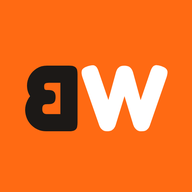
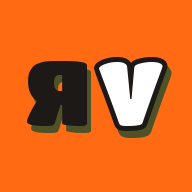
Rename the game to ReVerse and switch to chunky bubble letters
Titan One for the logo, headings and buttons, with a dark outline and a
brownish-green offset shadow on the big title. Body text in Fredoka one
weight heavier. New RV icon. Bumps the service worker cache.

Claude-Session: https://claude.ai/code/session_01UXSyVniC2nR7ZZAoqzu2wF

Changed region(s): [[0.125, 0.2812, 0.9062, 0.7188]]

diff --git a/docs/index.html b/docs/index.html
@@ -4,32 +4,38 @@
 <meta name="apple-mobile-web-app-capable" content="yes">
 <meta name="mobile-web-app-capable" content="yes">
 <meta name="apple-mobile-web-app-status-bar-style" content="black-translucent">
-<meta name="apple-mobile-web-app-title" content="BackWords">
+<meta name="apple-mobile-web-app-title" content="ReVerse">
 <link rel="manifest" href="manifest.webmanifest">
 <link rel="apple-touch-icon" href="icon-180.png">
 <link rel="icon" href="icon-192.png">
-<title>BackWords</title>
-<!-- Fredoka (SIL Open Font License) is served from this site, so the first paint does not wait on another domain. -->
+<title>ReVerse</title>
+<!-- Fonts (SIL Open Font License) are served from this site, so the first paint does not wait on another domain.
+     Titan One: chunky bubble letters for the logo, headings and buttons. Fredoka: body text. -->
+<link rel="preload" href="fonts/titan-one-latin.woff2" as="font" type="font/woff2" crossorigin>
 <link rel="preload" href="fonts/fredoka-latin.woff2" as="font" type="font/woff2" crossorigin>
 <style>:root{padding-top:env(safe-area-inset-top,0px);padding-bottom:env(safe-area-inset-bottom,0px)}[hidden]{display:none!important}img{max-width:100%}</style>
 <style>
 @font-face{font-family:"Fredoka";font-style:normal;font-weight:300 700;font-stretch:100%;font-display:swap;src:url(fonts/fredoka-latin.woff2) format("woff2");
   unicode-range:U+0000-00FF,U+0131,U+0152-0153,U+02BB-02BC,U+02C6,U+02DA,U+02DC,U+0304,U+0308,U+0329,U+2000-206F,U+20AC,U+2122,U+2191,U+2193,U+2212,U+2215,U+FEFF,U+FFFD}
+/* Titan One has one weight. Declaring it for the whole weight range stops browsers from faking a bold on top of it. */
+@font-face{font-family:"Titan One";font-style:normal;font-weight:100 900;font-display:swap;src:url(fonts/titan-one-latin.woff2) format("woff2");
+  unicode-range:U+0000-00FF,U+0131,U+0152-0153,U+02BB-02BC,U+02C6,U+02DA,U+02DC,U+0304,U+0308,U+0329,U+2000-206F,U+20AC,U+2122,U+2191,U+2193,U+2212,U+2215,U+FEFF,U+FFFD}
 /* Layout: phone-first stage. A thin bar on top, one main action per screen, centered.
-   Look: white and orange, one rounded friendly font (Fredoka), flat shapes, little decoration. */
+   Look: white and orange, chunky bubble letters (Titan One) with a brownish-green offset shadow for the
+   logo and headings, a pudgy rounded body font (Fredoka at a heavy weight), flat shapes. */
 :root{
   --bg:#ffffff; --card:#f6f2ee; --ink:#1c1917; --dim:#78716c; --line:#e9e2db;
   --a:#ff6a13; --a-dk:#4e5226; --b:#1c1917; --b-dk:#4e5226; --shadow:#4e5226;
   --gold:#ff6a13; --gold-dk:#4e5226; --good:#16a34a; --good-dk:#0f7a37; --bad:#dc2626;
   --paper:#fff4ec; --paper-ink:#1c1917; --on-team:#ffffff;
   --team:var(--a); --team-dk:var(--a-dk);
-  --f-d:"Fredoka","Arial Rounded MT Bold",system-ui,sans-serif;
+  --f-d:"Titan One","Fredoka","Arial Rounded MT Bold",system-ui,sans-serif;
   --f-b:"Fredoka",system-ui,-apple-system,sans-serif;
   color-scheme:light;
 }
 body[data-team="1"]{--team:var(--b);--team-dk:var(--b-dk)}
 html,body{height:100%}
-body{margin:0;background:var(--bg);color:var(--ink);font-family:var(--f-b);font-weight:500;font-size:17px;line-height:1.35;
+body{margin:0;background:var(--bg);color:var(--ink);font-family:var(--f-b);font-weight:600;font-size:17px;line-height:1.35;
   padding-left:max(16px,env(safe-area-inset-left,0px));padding-right:max(16px,env(safe-area-inset-right,0px));padding-block:10px 24px;
   -webkit-tap-highlight-color:transparent;user-select:none;-webkit-user-select:none}
 input{user-select:text;-webkit-user-select:text}
@@ -37,13 +43,14 @@ input{user-select:text;-webkit-user-select:text}
 h1,h2,.d{font-family:var(--f-d);font-weight:600;margin:0;letter-spacing:-.01em;text-wrap:balance}
 p{margin:0}
 .dim{color:var(--dim)}
-b{font-weight:600}
+b{font-weight:700}
 
 /* top bar */
 .bar{display:flex;align-items:center;justify-content:space-between;gap:8px;padding:4px 0 10px}
 .logo{font-family:var(--f-d);font-weight:600;font-size:1.15rem;display:flex;gap:0;align-items:center;letter-spacing:-.01em;background:none;border:none;color:var(--ink);padding:6px 6px 6px 0;margin:0;cursor:pointer;min-height:40px}
 .logo .bk{display:inline-block;width:.9em;margin-right:2px;font-size:1.3rem;line-height:1;color:var(--dim)}
 .logo .w{color:var(--a)}
+.logo span:not(.bk){text-shadow:.04em .07em 0 var(--shadow)}
 .scores{display:flex;align-items:center;gap:6px;font-family:var(--f-d);font-weight:600;font-size:1.1rem;font-variant-numeric:tabular-nums}
 .scores .s{padding:3px 10px;border-radius:999px;min-width:2.4em;text-align:center;color:#fff}
 .scores .sa{background:var(--a)} .scores .sb{background:var(--b)}
@@ -58,19 +65,19 @@ b{font-weight:600}
 .center{text-align:center;align-items:center}
 .kicker{font-size:.8rem;letter-spacing:.12em;text-transform:uppercase;color:var(--dim);font-weight:600}
 .huge{font-size:clamp(2.6rem,13vw,4rem);line-height:.95}
-.big-t{font-size:clamp(1.8rem,8.5vw,2.4rem);line-height:1.05}
+.big-t{font-size:clamp(1.8rem,8.5vw,2.4rem);line-height:1.05;text-shadow:.04em .06em 0 rgba(78,82,38,.28)}
 
 /* buttons: flat, rounded, a small press */
 .btn{font-family:var(--f-d);font-weight:600;font-size:1.3rem;border:none;border-radius:16px;padding:16px 20px;cursor:pointer;width:100%;
-  background:var(--a);color:#fff;box-shadow:0 4px 0 var(--a-dk);transition:transform .06s, box-shadow .06s;letter-spacing:.01em}
+  background:var(--a);color:#fff;box-shadow:0 4px 0 var(--a-dk);transition:transform .06s, box-shadow .06s;letter-spacing:.02em;text-shadow:0 .08em 0 rgba(78,82,38,.55)}
 .btn:active{transform:translateY(3px);box-shadow:0 1px 0 var(--a-dk)}
 .btn.team{background:var(--team);color:#fff;box-shadow:0 4px 0 var(--team-dk)}
 .btn.team:active{box-shadow:0 1px 0 var(--team-dk)}
-.btn.ghost{background:var(--card);color:var(--ink);box-shadow:none;font-size:1.05rem;padding:13px}
+.btn.ghost{background:var(--card);color:var(--ink);box-shadow:none;font-size:1.05rem;padding:13px;text-shadow:none}
 .btn.ghost:active{background:var(--line)}
 .btn svg{width:1.1em;height:1.1em;vertical-align:-.15em}
 .btn:disabled{opacity:.35;pointer-events:none}
-.link{background:none;border:none;color:var(--dim);font:500 .95rem var(--f-b);text-decoration:underline;cursor:pointer;padding:8px}
+.link{background:none;border:none;color:var(--dim);font:600 .95rem var(--f-b);text-decoration:underline;cursor:pointer;padding:8px}
 button:focus-visible,input:focus-visible{outline:3px solid var(--a);outline-offset:3px}
 .row{display:flex;gap:12px}
 .row>*{flex:1}
@@ -131,9 +138,9 @@ button:focus-visible,input:focus-visible{outline:3px solid var(--a);outline-offs
   box-shadow:0 4px 0 var(--shadow);animation:enter .3s backwards}
 .bet:active{transform:translateY(3px);box-shadow:0 1px 0 var(--shadow)}
 .bet .n{font-size:2.4rem;line-height:1}
-.bet .s{font-size:.7rem;letter-spacing:.1em;opacity:.9;font-weight:500}
+.bet .s{font-size:.7rem;letter-spacing:.1em;opacity:.9;font-weight:600}
 .bet .p{font-size:1.05rem}
-.bet .m{font-size:.75rem;opacity:.85;font-weight:500}
+.bet .m{font-size:.75rem;opacity:.85;font-weight:600}
 
 /* inputs */
 .inp{width:100%;box-sizing:border-box;font:600 1.3rem var(--f-b);padding:14px;border-radius:14px;border:2px solid var(--line);background:#fff;color:var(--ink);text-align:center}
@@ -157,8 +164,11 @@ button:focus-visible,input:focus-visible{outline:3px solid var(--a);outline-offs
 .title{text-align:center;padding:10px 0 4px}
 .title .huge{font-size:clamp(3rem,15vw,4.4rem);font-weight:700}
 .title .mirror{display:block;transform:scaleX(-1);color:var(--a)}
+/* Bubble letters: a dark outline drawn behind the fill, and a solid brownish-green offset shadow. */
+.title .huge,.code{-webkit-text-stroke:.09em var(--ink);paint-order:stroke fill;text-shadow:.05em .08em 0 var(--shadow)}
+.title .huge:not(.mirror){color:#fff}
 .seg{display:flex;flex-wrap:wrap;gap:8px}
-.seg button{font:500 .95rem var(--f-b);padding:9px 14px;border-radius:999px;border:none;background:#fff;color:var(--dim);cursor:pointer}
+.seg button{font:600 .95rem var(--f-b);padding:9px 14px;border-radius:999px;border:none;background:#fff;color:var(--dim);cursor:pointer}
 .seg button[aria-checked="true"]{background:var(--a);color:#fff}
 .lbl{font-size:.75rem;letter-spacing:.12em;text-transform:uppercase;color:var(--dim);font-weight:600}
 .teamrow{display:grid;grid-template-columns:1fr 1fr;gap:8px}
@@ -170,7 +180,7 @@ button:focus-visible,input:focus-visible{outline:3px solid var(--a);outline-offs
 .overlay{position:fixed;inset:0;background:rgba(28,25,23,.4);z-index:20;overflow:auto;
   padding:calc(env(safe-area-inset-top,0px) + 16px) max(16px,env(safe-area-inset-right,0px)) calc(env(safe-area-inset-bottom,0px) + 16px) max(16px,env(safe-area-inset-left,0px))}
 .overlay .card{max-width:480px;margin:0 auto;background:#fff}
-.overlay ul{margin:0;padding-left:20px;font-weight:400;display:flex;flex-direction:column;gap:6px}
+.overlay ul{margin:0;padding-left:20px;font-weight:500;display:flex;flex-direction:column;gap:6px}
 .tag{font-size:.65rem;color:var(--a);border:1px solid var(--a);border-radius:4px;padding:0 4px;margin-left:4px;font-weight:600}
 #fx{position:fixed;inset:0;pointer-events:none;z-index:30;width:100%;height:100%}
 .code{font-family:var(--f-d);font-weight:700;font-size:clamp(3.2rem,17vw,4.6rem);letter-spacing:.16em;line-height:1;color:var(--a)}
@@ -186,7 +196,7 @@ button:focus-visible,input:focus-visible{outline:3px solid var(--a);outline-offs
 .daily-cta:active{background:var(--paper)}
 .drow{display:flex;gap:10px;align-items:center;padding:10px 14px;border-radius:12px;background:var(--card);font-weight:600;text-align:left;width:100%;box-sizing:border-box}
 .drow.no span{color:var(--bad)} .drow.ok{background:#e8f7ee} .drow.ok span{color:var(--good)}
-.hint{padding:8px 14px;border-radius:12px;background:var(--paper);color:var(--ink);font-weight:500;width:100%;box-sizing:border-box;text-align:left;letter-spacing:.02em}
+.hint{padding:8px 14px;border-radius:12px;background:var(--paper);color:var(--ink);font-weight:600;width:100%;box-sizing:border-box;text-align:left;letter-spacing:.02em}
 .fbw{display:flex;flex-wrap:wrap;gap:6px;flex:1}
 .fbw i,.legend i{font-style:normal;padding:3px 9px;border-radius:8px;font-weight:600}
 .fb-g{background:var(--good);color:#fff} .fb-y{background:#f5b400;color:#1c1917} .fb-n{background:#ffd9bf;color:#1c1917} .fb-x{background:#e7e2dd;color:var(--dim)}
@@ -524,7 +534,7 @@ function topbar(){
 let quitArmed=false;
 // "Free" screens can be left at any time. Leaving an active game asks first (menu, tap twice to quit).
 const freeScreen = () => ["title","setup","daily","solo"].includes(S.screen) || (S.screen==="online" && !O.code);
-const logoHTML = () => `<button class="logo" id="homeBtn" aria-label="${S.screen==="title"?"BackWords":"Back to the home screen"}">${S.screen==="title"?"":`<span class="bk" aria-hidden="true">‹</span>`}<span>Back</span><span class="w">Words</span></button>`;
+const logoHTML = () => `<button class="logo" id="homeBtn" aria-label="${S.screen==="title"?"ReVerse":"Back to the home screen"}">${S.screen==="title"?"":`<span class="bk" aria-hidden="true">‹</span>`}<span>Re</span><span class="w">Verse</span></button>`;
 function helpHTML(){
   if(S.screen==="daily") return `<ul><li>One word a day, the same for everyone. A new one comes at midnight New York time.</li>
       <li>Listen to it backward as often as you like. Slow it down if it helps.</li>
@@ -619,9 +629,9 @@ function afterBet(){
 
 const VIEWS = {
   title(){
-    return { cls:"center", html:`<div class="title"><h1 class="huge">BackWords</h1><h1 class="huge mirror" aria-hidden="true">BackWords</h1></div>
+    return { cls:"center", html:`<div class="title"><h1 class="huge">ReVerse</h1><h1 class="huge mirror" aria-hidden="true">ReVerse</h1></div>
       <span class="chip" id="wcount" style="${WORD_COUNT?"":"visibility:hidden"}">${WORD_COUNT?WORD_COUNT.toLocaleString():"0,000"} words and phrases</span><p class="dim" style="max-width:22em">Say it. Hear it backward. Say <i>that</i>. Your teammate hears it flipped and has to guess.</p>
-      ${ONLINE_OK?`<button class="btn daily-cta" id="daily">DAILY BACKWORD</button><button class="btn ghost" id="solo">1 player · free play</button><button class="btn" id="playOnline">PLAY ON EVERYONE'S PHONE</button><button class="btn ghost" id="play">Pass one phone around</button>`:`<button class="btn" id="play">PLAY</button>`}`,
+      ${ONLINE_OK?`<button class="btn daily-cta" id="daily">DAILY REVERSE</button><button class="btn ghost" id="solo">1 player · free play</button><button class="btn" id="playOnline">PLAY ON EVERYONE'S PHONE</button><button class="btn ghost" id="play">Pass one phone around</button>`:`<button class="btn" id="play">PLAY</button>`}`,
       bind(){ $("play").onclick=()=>{ ac(); SFX.go(); ensureMic(); go("setup"); };
         if($("daily")) $("daily").onclick=()=>{ ac(); SFX.go(); openDaily(); };
         if($("solo")) $("solo").onclick=()=>{ ac(); SFX.go(); openSolo(); };
@@ -805,7 +815,7 @@ function finish(correct){
 }
 
 
-// ---------- Daily BackWord: one word a day, same for everyone ----------
+// ---------- Daily ReVerse: one word a day, same for everyone ----------
 const D = { speed:(()=>{ try{ const v=+localStorage.getItem("bw-speed2"); return [1,0.7,0.5].includes(v)?v:0.7; }catch(e){ return 0.7; } })(), info:null, rev:null, fwd:null, err:"", loading:false, busy:false, draft:"", local:{}, listens:0, copied:false };
 const DKEY="bw-daily", DSTATS="bw-daily-stats";
 const dload = (k,d) => { try{ return JSON.parse(localStorage.getItem(k)) || d; }catch(e){ return d; } };
@@ -867,12 +877,12 @@ async function dailyGuess(text){
 }
 function shareText(st){
   const sq = st.guesses.map(g=>g.ok?"🟩":"🟥").join("");
-  return `BackWords Daily #${D.info.n} ${st.won?st.guesses.length:"X"}/${D.info.maxGuesses}\n${sq}  🔁${st.listens||D.listens}\n${location.origin}`;
+  return `ReVerse Daily #${D.info.n} ${st.won?st.guesses.length:"X"}/${D.info.maxGuesses}\n${sq}  🔁${st.listens||D.listens}\n${location.origin}`;
 }
 
 VIEWS.daily = function(){
-  if(D.loading || (!D.info && !D.err)) return { cls:"center", key:"load", html:`<span class="kicker">Daily BackWord</span><h2 class="big-t">Loading today's word…</h2><div class="dots"><i></i><i></i><i></i></div>` };
-  if(D.err && !D.rev) return { cls:"center", key:"err", html:`<span class="kicker">Daily BackWord</span><p class="err">${esc(D.err)}</p><button class="btn" id="retry">TRY AGAIN</button><button class="link" id="home">Back</button>`,
+  if(D.loading || (!D.info && !D.err)) return { cls:"center", key:"load", html:`<span class="kicker">Daily ReVerse</span><h2 class="big-t">Loading today's word…</h2><div class="dots"><i></i><i></i><i></i></div>` };
+  if(D.err && !D.rev) return { cls:"center", key:"err", html:`<span class="kicker">Daily ReVerse</span><p class="err">${esc(D.err)}</p><button class="btn" id="retry">TRY AGAIN</button><button class="link" id="home">Back</button>`,
     bind(){ $("retry").onclick=()=>{ D.info=null; openDaily(); }; $("home").onclick=()=>go("title"); } };
   const st=dstate(), max=D.info.maxGuesses, left=max-st.guesses.length;
   if(!st.listens && D.listens) st.listens=D.listens;
@@ -882,7 +892,7 @@ VIEWS.daily = function(){
   const hints = st.hints.map(h=>`<div class="hint">💡 ${esc(h)}</div>`).join("");
   if(st.over){
     const s=dstats();
-    return { cls:"center", key:"over", html:`<span class="kicker">Daily BackWord #${D.info.n}</span>
+    return { cls:"center", key:"over", html:`<span class="kicker">Daily ReVerse #${D.info.n}</span>
       <h2 class="big-t">${st.won?(st.guesses.length===1?"First try!":"Got it!"):"Not today"}</h2>
       <div class="word sm">${esc(st.word)}</div>
       <div class="lrow"><button class="play sm" id="fwd" aria-label="Play forward">${ICON.play}</button><button class="play sm" id="pl" aria-label="Play backward">${ICON.rew}</button></div>
@@ -900,7 +910,7 @@ VIEWS.daily = function(){
       } };
   }
   const L=D.local, mine=L.mine;
-  return { cls:"center", html:`<span class="kicker">Daily BackWord #${D.info.n} · ${esc(D.info.cat)}</span>
+  return { cls:"center", html:`<span class="kicker">Daily ReVerse #${D.info.n} · ${esc(D.info.cat)}</span>
     <div class="lrow"><button class="play sm" id="pl" aria-label="Play backward">${ICON.rew}</button><p class="dim">Today's word, played backward. Listen as much as you want.</p></div>
     ${speedSeg()}
     <div class="row" style="gap:10px"><button class="btn ghost" id="rec">${activeRec?"■ Stop":"🎙 Say it back"}</button><button class="btn ghost" id="flip" ${mine?"":"disabled"}>🔄 Flip mine</button></div>
@@ -1185,7 +1195,7 @@ const ONLINE_VIEWS = {
       :`<div class="card center"><p class="dim">${esc(oname(s.hostId))} is setting up: ${st.mode==="points"?"Points":"Casual"} · ${esc(st.category)} · ${st.source==="opponent"?"other team picks":"random words"}</p></div>${waitCard("Waiting for the host","")}`}`,
       bind(){
         document.querySelectorAll("[data-team]").forEach(b=>b.onclick=()=>{ SFX.tap(); send({type:"team",team:+b.dataset.team}); });
-        $("share").onclick=async()=>{ try{ if(navigator.share){ await navigator.share({title:"BackWords",text:"Join my game. Room code "+O.code,url:link}); return; } }catch(e){ return; }
+        $("share").onclick=async()=>{ try{ if(navigator.share){ await navigator.share({title:"ReVerse",text:"Join my game. Room code "+O.code,url:link}); return; } }catch(e){ return; }
           try{ await navigator.clipboard.writeText(link); $("share").textContent="Link copied"; }catch(e){ $("share").textContent=link; } };
         if(host){
           const set=x=>send({type:"settings",settings:Object.assign({},st,x)});

diff --git a/docs/sw.js b/docs/sw.js
@@ -4,8 +4,8 @@
 // - Word list, icons, manifest: served from cache at once, refreshed in the background.
 // - The font never changes: cache first.
 // Bump CACHE when the precache list changes. Old caches are deleted on activate.
-const CACHE = "bw-v12";
-const PRECACHE = ["./", "manifest.webmanifest", "icon-192.png", "icon-512.png", "words.json", "fonts/fredoka-latin.woff2"];
+const CACHE = "bw-v13";
+const PRECACHE = ["./", "manifest.webmanifest", "icon-192.png", "icon-512.png", "words.json", "fonts/fredoka-latin.woff2", "fonts/titan-one-latin.woff2"];
 
 self.addEventListener("install", e => {
   self.skipWaiting();

diff --git a/README.md b/README.md
@@ -1,4 +1,4 @@
-# BackWords
+# ReVerse
 
 A 2v2 party game, played on everyone's own phone or by passing one phone around. The Speaker says a word, hears it backward, then says the backward version from memory. That copy is flipped and played to the Guesser, who has to guess the original word.
 
@@ -7,14 +7,14 @@ No build step. Hosted on Cloudflare Workers: static files from `docs/`, plus `sr
 - `docs/index.html`: the whole game client (HTML, CSS, JS)
 - `src/worker.js`: room server for online play
 - `docs/sw.js`, `manifest.webmanifest`, `icon-*.png`: home screen app support
-- `docs/fonts/`: the Fredoka font, served from this site (no Google Fonts request)
+- `docs/fonts/`: Titan One (bubble letters for the logo, headings and buttons) and Fredoka (body text), served from this site (no Google Fonts request)
 - `docs/_headers`: browser cache rules for the static files (long cache for the font and icons)
 
 The service worker serves the page network first (falling back to the cached copy after 2.5 seconds
 or when offline) and everything else from cache, refreshed in the background. Bump `CACHE` in
 `docs/sw.js` when its precache list changes.
 
-## Daily BackWord
+## Daily ReVerse
 
 One word a day (midnight New York time), the same for everyone. The Worker picks it from
 `src/daily-words.js` (built by `tools/daily.py`, not served publicly), voices it with
